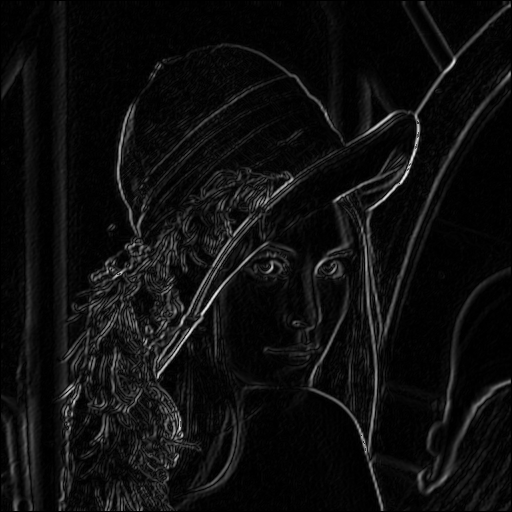
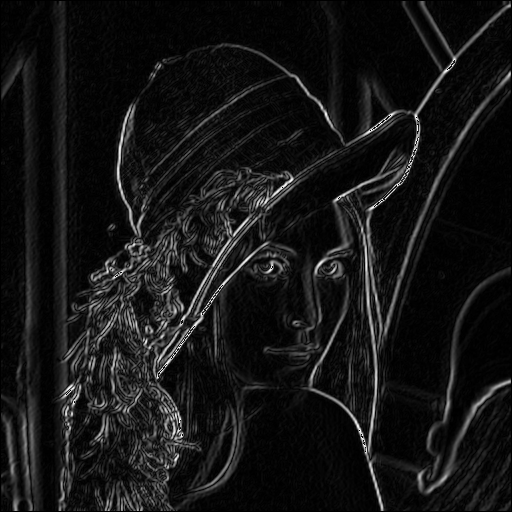
Add canny

diff --git a/week2/canny.cpp b/week2/canny.cpp
@@ -1,0 +1,258 @@
+/* Edge Detect: Canny
+    * Step 1: Apply a Gaussian blur
+    * Step 2: Find edge gradient strength and direction
+    * Step 3: Trace along the edges
+    * Step 4: Suppress non-maximum edges
+*/
+#include <stdio.h>
+#include <ctime>
+#include <cmath>
+#include "opencv2/opencv.hpp"
+
+using namespace std;
+using namespace cv;
+
+// Gaussian Filter
+
+void gaussianFilter(Mat &src, Mat &dst, int kernel, double sigma= 0.84089642)
+{
+    // Initialise values
+    int size = 2 * kernel + 1;
+    double GKernel[size][size];
+    double r, s=2.0 * sigma * sigma;
+    double sum=0.0;
+
+    // Generate the gaussian kernel
+    for (int y = 0; y < (size); y++)
+    {
+        for (int x = 0; x < (size); x++)
+        {
+            r = ((x-kernel)*(x-kernel)+(y-kernel)*(y-kernel));
+            GKernel[y][x] = (exp(-r/s)) / (M_PI * s);
+            sum += GKernel[y][x];
+        }
+    }
+
+    // Normalize the kernel
+    for (int y = 0; y < size; y++)
+        for (int x = 0; x < size; x++)
+            {GKernel[y][x] /= sum;
+            //cout << GKernel[y][x]<<endl;
+            }
+    
+    // Convolution image with GKernel
+    for (int y = 0; y < src.rows; y++)
+    {
+        for (int x = 0; x < src.cols; x++)
+        {
+            if ((y-kernel >= 0)&&(x-kernel >= 0)&&(y+kernel < src.rows)&&(x+kernel < src.cols))
+            {
+                // Convolution
+                double sum = 0;
+                for (int k1 = 0; k1 < (size); k1++)
+                    for (int k2 = 0; k2 < (size); k2++)
+                        sum += (double)src.at<uchar>(y-kernel+k1, x-kernel+k2)*GKernel[k1][k2];  
+                dst.at<uchar>(y,x)=sum;
+            }
+        }  
+    }                
+}
+
+// Sobel Filter
+void sobelKernel(Mat &src, Mat &dst, Mat &dst2, int kernel)
+{
+    // Initialise values
+    int size= 2 * kernel + 1;
+    double Gx[size][size], Gy[size][size];
+    int edgeDir[src.rows][src.cols];
+
+    // Generate sobel kernel
+    for (int y = 0; y < size; y++)
+    {
+        for (int x = 0; x < size; x++)
+        {
+            if (y != kernel || x != kernel)
+            {
+                // Gx f(x,y) dot (1,0)
+                Gx[y][x] = (double)(x-kernel) / (double)((x-kernel)*(x-kernel) + (y-kernel)*(y-kernel));
+                // Gy f(x,y) dot (0,1)
+                Gy[y][x] = (double)(y-kernel) / (double)((x-kernel)*(x-kernel) + (y-kernel)*(y-kernel));
+            }
+            else
+                Gx[y][x]=Gy[y][x]=0;
+        } 
+    }
+
+    // Convolution image with soble kernel
+    for (int y = 0; y < src.rows; y++)
+    {
+        for (int x = 0; x < src.cols; x++)
+        {
+            double sumx = 0, sumy = 0;
+            double angle = 0;
+            if ((y-kernel >= 0)&&(x-kernel >= 0)&&(y+kernel < src.rows)&&(x+kernel < src.cols))
+            {
+                // Convolution
+                for (int k1 = 0; k1 < size; k1++)
+                {
+                    for (int k2 = 0; k2 < size; k2++)
+                    {
+                        sumx += src.at<uchar>(y-kernel+k1, x-kernel+k2) * Gx[k1][k2];
+                        sumy += src.at<uchar>(y-kernel+k1, x-kernel+k2) * Gy[k1][k2]; 
+                    }  
+                }         
+                dst2.at<uchar>(y,x) = dst.at<uchar>(y,x) = (int)sqrt(pow(sumx,2) + pow(sumy,2));
+                angle = (atan2(sumx,sumy) / M_PI) * 180.0;                     
+            }
+            else
+            {
+                dst2.at<uchar>(y,x) = dst.at<uchar>(y,x)=0;
+                angle = 0;
+            }
+
+            /* Convert actual edge direction to approximate value */
+            if ( ( (angle < 22.5) && (angle > -22.5) ) || (angle > 157.5) || (angle < -157.5) )
+                edgeDir[y][x] = 0;
+            if ( ( (angle > 22.5) && (angle < 67.5) ) || ( (angle < -112.5) && (angle > -157.5) ) )
+                edgeDir[y][x] = 45;
+            if ( ( (angle > 67.5) && (angle < 112.5) ) || ( (angle < -67.5) && (angle > -112.5) ) )
+                edgeDir[y][x] = 90;
+            if ( ( (angle > 112.5) && (angle < 157.5) ) || ( (angle < -22.5) && (angle > -67.5) ) )
+                edgeDir[y][x] = 135;
+        }  
+    }
+
+    // Non-maximum suppression
+    for (int y = 0; y < src.rows; y++)
+    {
+        for (int x = 0; x < src.cols; x++)
+        {
+            if ((y-kernel >= 0)&&(x-kernel >= 0)&&(y+kernel < src.rows)&&(x+kernel < src.cols))
+                switch (edgeDir[y][x])
+                {
+                case 0:
+                    if ((dst.at<uchar>(y,x) < dst.at<uchar>(y,x-1))||(dst.at<uchar>(y,x) < dst.at<uchar>(y,x+1)))
+                        dst2.at<uchar>(y,x)=0;
+                    break;
+
+                case 45:
+                    if ((dst.at<uchar>(y,x) < dst.at<uchar>(y+1,x-1))||(dst.at<uchar>(y,x) < dst.at<uchar>(y-1,x+1)))
+                        dst2.at<uchar>(y,x)=0;
+                    break;
+
+                case 90:
+                    if ((dst.at<uchar>(y,x) < dst.at<uchar>(y-1,x))||(dst.at<uchar>(y,x) < dst.at<uchar>(y+1,x)))
+                        dst2.at<uchar>(y,x)=0;
+                    break;
+
+                case 135:
+                if ((dst.at<uchar>(y,x) < dst.at<uchar>(y-1,x-1))||(dst.at<uchar>(y,x) < dst.at<uchar>(y+1,x+1)))
+                        dst2.at<uchar>(y,x)=0;
+                    break;
+                }
+        }
+        
+    }
+    
+}
+
+// double thershold
+void db_thershold(Mat &src, Mat &dst, int kernel,int low, int high)
+{
+    int G[src.rows][src.cols];
+    int size = 2 * kernel + 1;
+    for (int y = 0; y < src.rows; y++)
+    {
+        for (int x = 0; x < src.cols; x++)
+        {
+            if ((y-kernel >= 0)&&(x-kernel >= 0)&&(y+kernel < src.rows)&&(x+kernel < src.cols))
+            {   
+                if (src.at<uchar>(y,x)<low) G[y][x] = 0;
+                else if ((src.at<uchar>(y,x)>low) && (src.at<uchar>(y,x)<high))
+                {
+                    bool edge = false;
+                    for (int k1 = 0; k1 < (size); k1++)
+                    {
+                        for (int k2 = 0; k2 < (size); k2++)
+                        {
+                            if (src.at<uchar>(y-kernel+k1, x-kernel+k2)>high)
+                                {
+                                    edge = true;
+                                    break;
+                                }
+                        }
+                    }
+                    if (!edge) G[y][x] = 0;
+                }
+                dst.at<uchar>(y,x)=dst.at<uchar>(y,x-1)=dst.at<uchar>(y,x+1)=G[y][x];
+            }
+        }  
+    }      
+}
+
+
+int main(int argc, char** argv)
+{
+    // Read the image
+    Mat image = imread("../images/lena.png",0);
+    
+    // Gaussian
+    int kernel;
+    printf("Enter kernel size of gaussian filter(3 ,5 ,7, ..., 2N+1): ");
+    scanf("%d",&kernel);
+    if ((kernel%2) == 0 || kernel > image.rows || kernel > image.cols || kernel == 1)
+        {
+            printf("Error value!!\n");
+            return -1;
+        }
+    kernel =  (kernel-1)/2;
+    Mat gaussianImage = image.clone();
+    gaussianFilter(image, gaussianImage, kernel);
+    
+    // Sobel
+    printf("Enter kernel size of sobel filter(3 ,5 ,7, ..., 2N+1): ");
+    scanf("%d",&kernel);
+    if ((kernel%2) == 0 || kernel > image.rows || kernel > image.cols || kernel == 1)
+        {
+            printf("Error value!!\n");
+            return -1;
+        }
+    kernel =  (kernel-1)/2;
+    Mat sobelImage = image.clone();
+    Mat suppressionImage = image.clone();
+    sobelKernel(gaussianImage, sobelImage, suppressionImage, kernel);
+
+    // Double thershold
+    printf("Enter kernel size of double thershold(3 ,5 ,7, ..., 2N+1): ");
+    scanf("%d",&kernel);
+    if ((kernel%2) == 0 || kernel > image.rows || kernel > image.cols || kernel == 1)
+        {
+            printf("Error value!!\n");
+            return -1;
+        }
+    kernel =  (kernel-1)/2;
+    Mat dbImage = suppressionImage.clone();
+    int low=0, high=0;
+    printf("Enter low and high value for double thershold: ");
+    scanf("%d %d",&low, &high);
+    if (low > high || high > 254 || low < 0)
+        {
+            printf("Error value!!%d %d\n",low ,high);
+            return -1;
+        }
+    db_thershold(suppressionImage, dbImage, kernel, low, high);
+    
+    // Show images
+    imshow("Original",image);
+    imshow("Gaussian", gaussianImage);
+    imshow("Sobel", sobelImage);
+    imshow("Suppression", suppressionImage);
+    imshow("Double thershold", dbImage);
+    waitKey();
+    
+    // Save images
+    imwrite("../images/1-gaussian.png", gaussianImage);
+    imwrite("../images/2-sobel.png", sobelImage);
+    imwrite("../images/3-suppression.png", suppressionImage);
+    imwrite("../images/4-dbThershold.png", dbImage);
+}

diff --git a/week2/edgeDetect.cpp b/week2/edgeDetect.cpp
@@ -57,7 +57,7 @@ void addImage(Mat &src1, Mat &src2,Mat &dst)
 {
     for (int y = 0; y < dst.rows; y++)
         for (int x = 0; x < dst.cols; x++)
-            dst.at<uchar>(y,x)=(src1.at<uchar>(y,x) + src2.at<uchar>(y,x)) / 2;
+            dst.at<uchar>(y,x)=sqrt(pow(src1.at<uchar>(y,x),2) + pow(src2.at<uchar>(y,x),2));
 }
 
 // Laplacian  Filter
